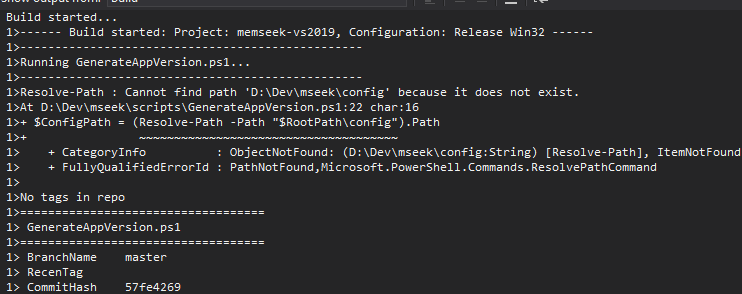
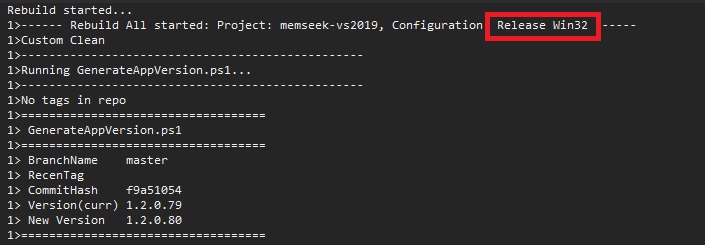
auto

Changed region(s): [[0.0, 0.0, 0.8738, 0.4286], [0.0, 0.4571, 0.9986, 1.0], [0.4681, 0.2, 0.4993, 0.2286]]

diff --git a/src/version.cpp b/src/version.cpp
@@ -3,7 +3,7 @@
 //  version.cpp
 //
 //==============================================================================
-//  automatically generated on Friday, April 4, 2025 22:41
+//  automatically generated on Friday, April 4, 2025 22:44
 //==============================================================================
 
 #include "stdafx.h"
@@ -16,12 +16,12 @@ unsigned int memgrep::version::minor  = 2;
 unsigned int memgrep::version::build  = 0;
 unsigned int memgrep::version::rev    = release;
 std::string  memgrep::version::sha    = "master";
-std::string  memgrep::version::branch = "57fe4269";
+std::string  memgrep::version::branch = "f9a51054";
 #else
 unsigned int memgrep::version::major  = 1;
 unsigned int memgrep::version::minor  = 2;
 unsigned int memgrep::version::build  = 0;
-unsigned int memgrep::version::rev    = 79;
+unsigned int memgrep::version::rev    = 80;
 std::string  memgrep::version::sha    = "master";
-std::string  memgrep::version::branch = "57fe4269";
+std::string  memgrep::version::branch = "f9a51054";
 #endif // _RELEASE
